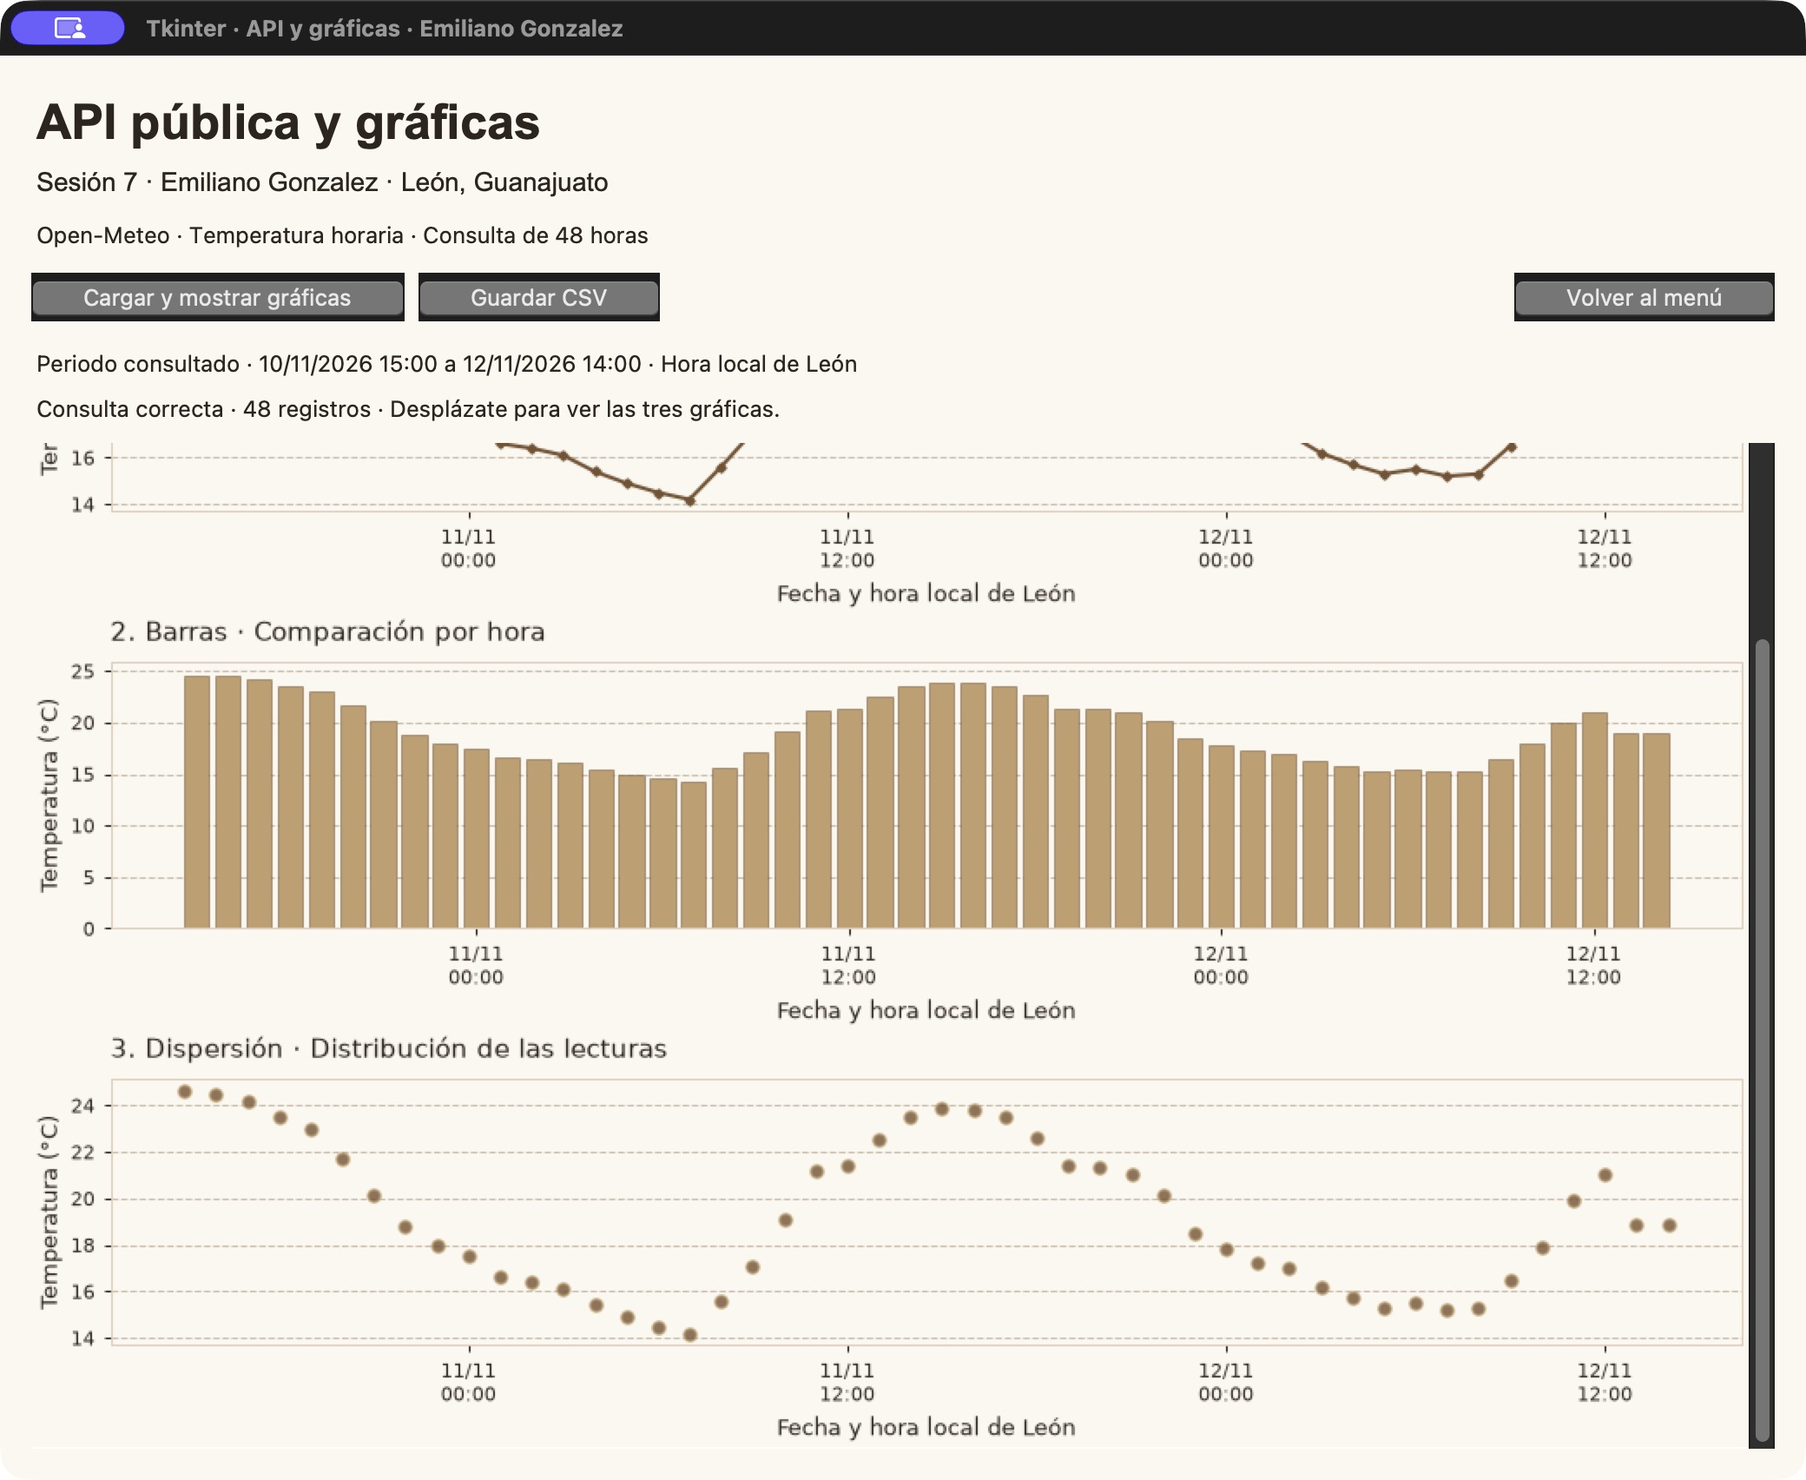
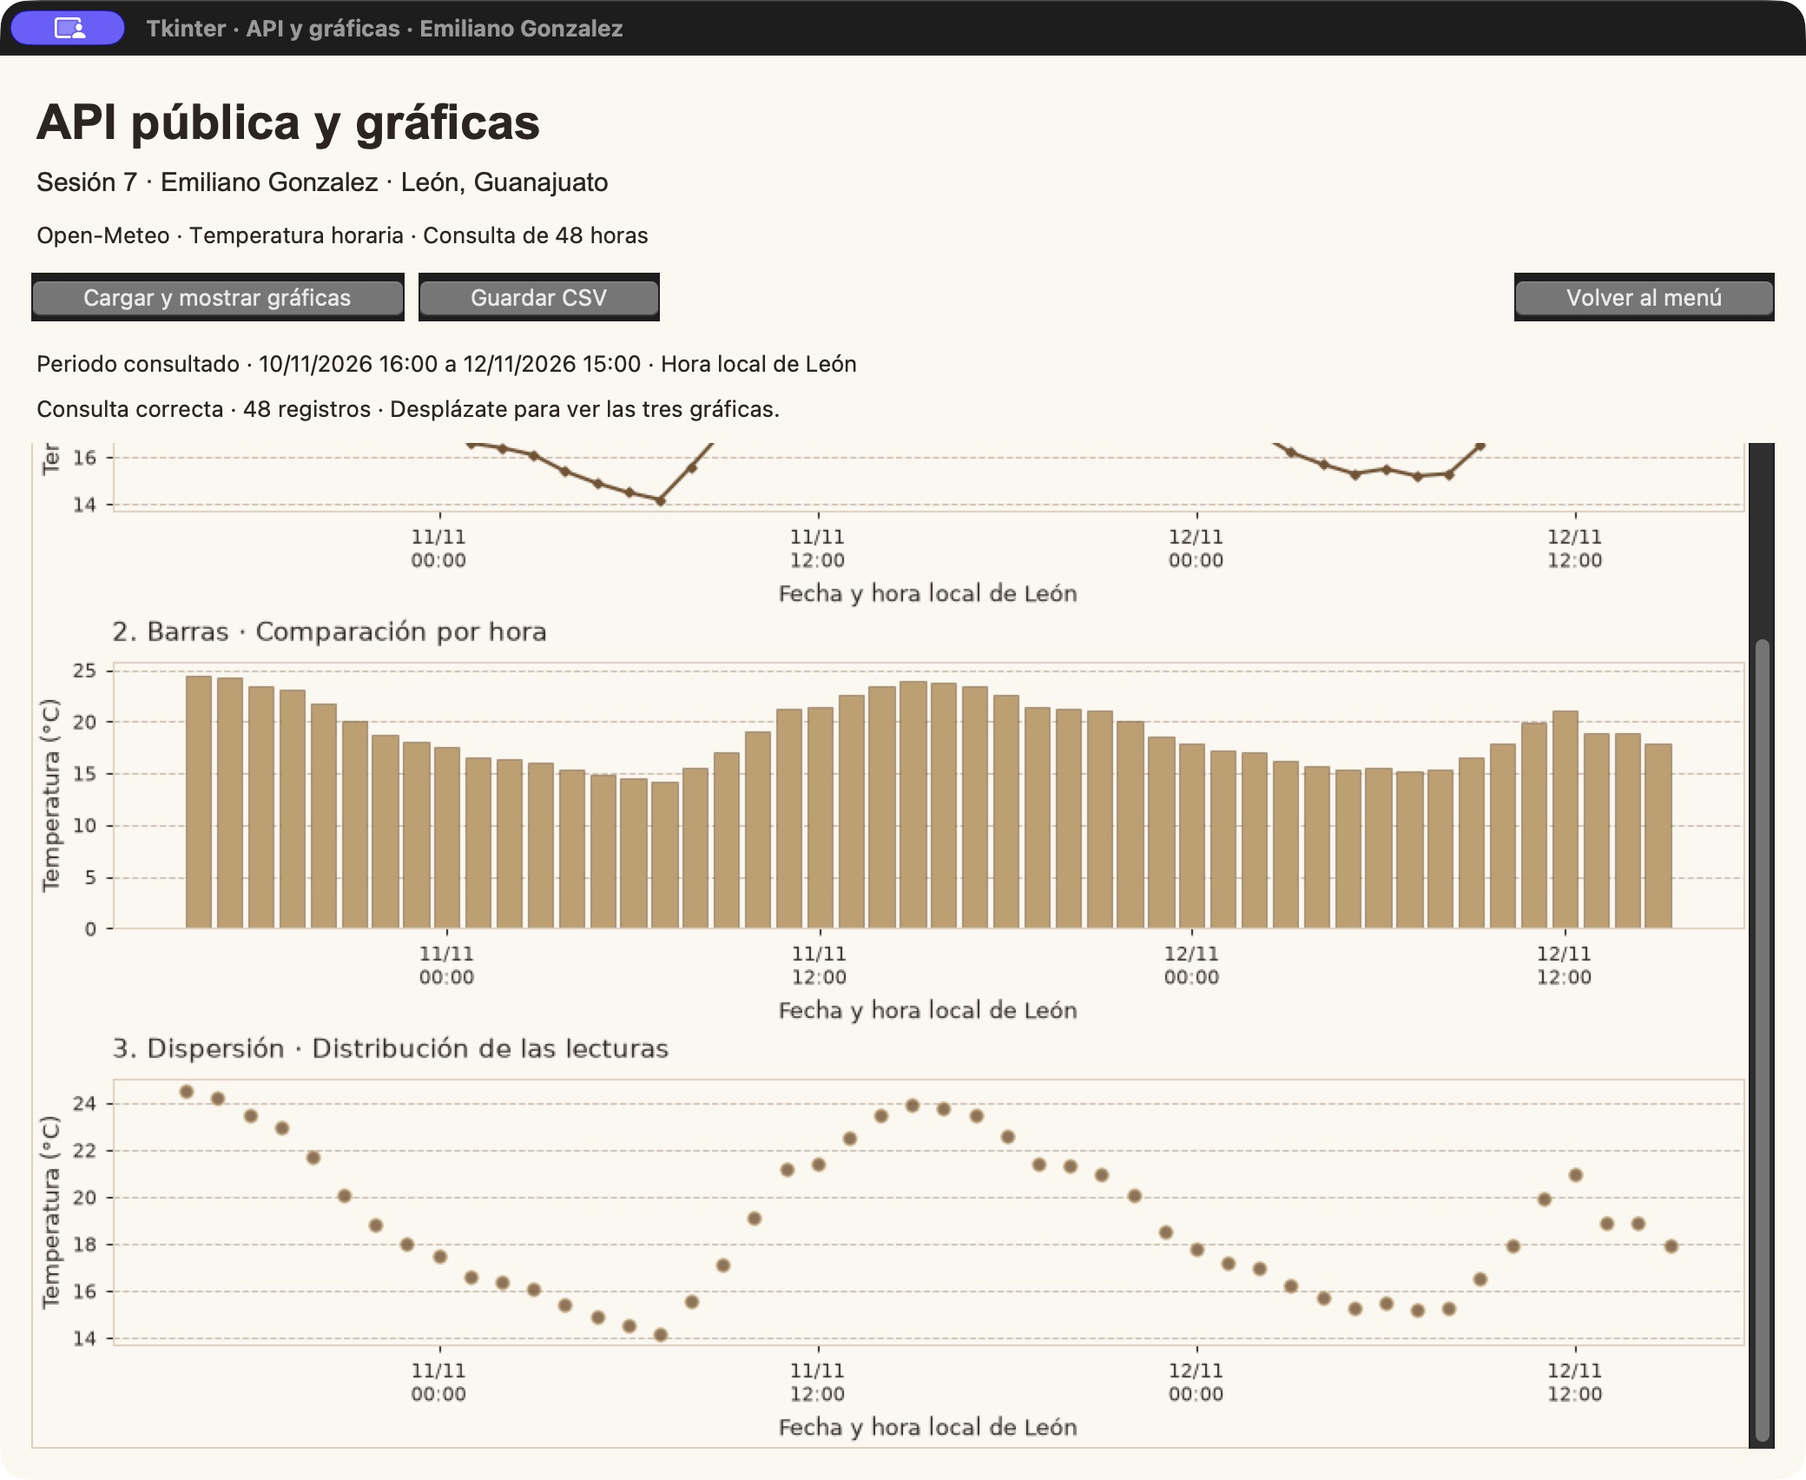
Simplifica la ventana API con funciones y ciclos basicos

diff --git a/src/app/win_canvas.py b/src/app/win_canvas.py
@@ -1,31 +1,13 @@
-"""Sesión 7 de Emiliano. API pública, tres gráficas y guardado en CSV."""
-
 import csv
 from datetime import datetime
-import math
-from pathlib import Path
-from queue import Empty, Queue
-from tempfile import NamedTemporaryFile
-from threading import Thread
 import tkinter as tk
-from tkinter import filedialog, messagebox, ttk
+from tkinter import ttk, filedialog, messagebox
 
-from matplotlib import dates as mdates
-from matplotlib.backends.backend_tkagg import FigureCanvasTkAgg
-from matplotlib.figure import Figure
 import requests
+from matplotlib import dates as mdates
+from matplotlib.figure import Figure
+from matplotlib.backends.backend_tkagg import FigureCanvasTkAgg
 
-
-API_URL = "https://api.open-meteo.com/v1/forecast"
-PARAMETROS = {
-    "latitude": 21.12,
-    "longitude": -101.68,
-    "hourly": "temperature_2m",
-    "past_hours": 48,
-    "forecast_hours": 0,
-    "timezone": "America/Mexico_City",
-    "temperature_unit": "celsius",
-}
 FONDO = "#fcf8f0"
 CAFE = "#765130"
 TINTA = "#2c241e"
@@ -33,63 +15,58 @@ DORADO = "#c29f6c"
 BORDE = "#ded0bc"
 
 
+# 1. Pedir a la API las temperaturas de las últimas 48 horas de León.
 def fetch_data():
-    """Consulta las últimas 48 horas disponibles de temperatura de León."""
-    respuesta = requests.get(API_URL, params=PARAMETROS, timeout=15)
+    url = "https://api.open-meteo.com/v1/forecast"
+    parametros = {
+        "latitude": 21.12,
+        "longitude": -101.68,
+        "hourly": "temperature_2m",
+        "past_hours": 48,
+        "forecast_hours": 0,
+        "timezone": "America/Mexico_City",
+        "temperature_unit": "celsius",
+    }
+    respuesta = requests.get(url, params=parametros, timeout=15)
     respuesta.raise_for_status()
     datos = respuesta.json()["hourly"]
     horas = datos["time"]
-    temperaturas = datos["temperature_2m"]
+    temperaturas = []
+    for valor in datos["temperature_2m"]:
+        temperaturas.append(float(valor))
     if not horas or len(horas) != len(temperaturas):
-        raise ValueError("La API devolvió una serie de datos incompleta.")
-
-    # Validar las fechas y temperaturas antes de mostrarlas o guardarlas.
-    for hora, temperatura in zip(horas, temperaturas):
+        raise ValueError("La API devolvió datos incompletos.")
+    for hora in horas:
         datetime.fromisoformat(hora)
-        if isinstance(temperatura, bool) or not isinstance(temperatura, (int, float)):
-            raise ValueError("La API devolvió una temperatura inválida.")
-        if not math.isfinite(temperatura):
-            raise ValueError("La API devolvió una temperatura fuera de rango.")
     return horas, temperaturas
 
 
+# 2. Guardar las fechas y temperaturas en un archivo CSV.
 def guardar_csv(ruta, horas, temperaturas):
-    """Guarda la consulta completa y reemplaza el archivo al terminar."""
-    ruta = Path(ruta)
-    temporal = None
-    try:
-        with NamedTemporaryFile(
-            mode="w", encoding="utf-8", newline="", dir=ruta.parent,
-            prefix=".temperaturas_", suffix=".tmp", delete=False,
-        ) as archivo:
-            temporal = Path(archivo.name)
-            escritor = csv.writer(archivo, lineterminator="\n")
-            escritor.writerow(["fecha_hora", "temperatura_c"])
-            escritor.writerows(zip(horas, temperaturas))
-        temporal.replace(ruta)
-    finally:
-        if temporal is not None:
-            temporal.unlink(missing_ok=True)
+    with open(ruta, "w", encoding="utf-8", newline="") as archivo:
+        escritor = csv.writer(archivo, lineterminator="\n")
+        escritor.writerow(["fecha_hora", "temperatura_c"])
+        for i in range(len(horas)):
+            escritor.writerow([horas[i], temperaturas[i]])
 
 
-def crear_graficas(horas, temperaturas):
-    """Dibuja línea, barras y dispersión sobre la misma consulta horaria."""
-    fechas = [datetime.fromisoformat(hora) for hora in horas]
-    figura = Figure(figsize=(10, 8), dpi=90, layout="constrained", facecolor=FONDO)
+# 3. Dibujar tres gráficas con los mismos datos.
+def crear_graficas(figura, horas, temperaturas):
+    fechas = []
+    for hora in horas:
+        fechas.append(datetime.fromisoformat(hora))
+    figura.clear()
     ejes = figura.subplots(3, 1)
-    ejes[0].plot(fechas, temperaturas, color=CAFE, marker="D", markersize=3,
-                 linewidth=1.7, label="Temperatura horaria")
-    ejes[1].bar(fechas, temperaturas, width=0.033, color=DORADO, edgecolor=CAFE,
-                linewidth=0.4, label="Temperatura por hora")
-    ejes[2].scatter(fechas, temperaturas, color=CAFE, edgecolors=DORADO,
-                    marker="o", s=34, alpha=0.8, label="Lecturas horarias")
-
+    ejes[0].plot(fechas, temperaturas, color=CAFE, marker="D", markersize=3, linewidth=1.7)
+    ejes[1].bar(fechas, temperaturas, width=0.033, color=DORADO, edgecolor=CAFE, linewidth=0.4)
+    ejes[2].scatter(fechas, temperaturas, color=CAFE, edgecolors=DORADO, s=34, alpha=0.8)
     titulos = ["1. Línea · Evolución de la temperatura",
                "2. Barras · Comparación por hora",
                "3. Dispersión · Distribución de las lecturas"]
-    for eje, titulo in zip(ejes, titulos):
+    for i in range(3):
+        eje = ejes[i]
         eje.set_facecolor(FONDO)
-        eje.set_title(titulo, loc="left", color=TINTA, fontsize=12, pad=10)
+        eje.set_title(titulos[i], loc="left", color=TINTA, fontsize=12, pad=10)
         eje.set_xlabel("Fecha y hora local de León", color=TINTA)
         eje.set_ylabel("Temperatura (°C)", color=TINTA)
         eje.xaxis.set_major_locator(mdates.AutoDateLocator(minticks=4, maxticks=8))
@@ -99,9 +76,9 @@ def crear_graficas(horas, temperaturas):
         eje.set_axisbelow(True)
         for borde in eje.spines.values():
             borde.set_color(BORDE)
-    return figura
 
 
+# 4. Crear la subventana, igual que en el programa base del profesor.
 def open_win_canvas(parent: tk.Tk):
     win = tk.Toplevel(parent)
     win.title("Tkinter · API y gráficas · Emiliano Gonzalez")
@@ -110,101 +87,63 @@ def open_win_canvas(parent: tk.Tk):
     win.configure(bg=FONDO)
     estilo = ttk.Style(win)
     estilo.configure("Emiliano.TButton", padding=(10, 0))
-
     frm = tk.Frame(win, padx=18, pady=18, bg=FONDO)
     frm.pack(fill="both", expand=True)
     tk.Label(frm, text="API pública y gráficas", bg=FONDO, fg=TINTA,
-              font=("Arial", 21, "bold")).pack(anchor="w")
+             font=("Arial", 21, "bold")).pack(anchor="w")
     tk.Label(frm, text="Sesión 7 · Emiliano Gonzalez · León, Guanajuato",
-              bg=FONDO, fg=TINTA, font=("Arial", 11)).pack(anchor="w", pady=(4, 8))
+             bg=FONDO, fg=TINTA, font=("Arial", 11)).pack(anchor="w", pady=(4, 8))
     tk.Label(frm, text="Open-Meteo · Temperatura horaria · Consulta de 48 horas",
-              bg=FONDO, fg=TINTA).pack(anchor="w", pady=(0, 12))
-
+             bg=FONDO, fg=TINTA).pack(anchor="w", pady=(0, 12))
     controles = tk.Frame(frm, bg=FONDO)
     controles.pack(fill="x")
     estado = tk.StringVar(value="Presiona Cargar y mostrar gráficas para consultar la API.")
     periodo = tk.StringVar(value="Los datos se mostrarán con la hora local de León.")
-    resultados = Queue()
-    datos_actuales = None
-    grafica = None
-    figura = None
-    tarea_pendiente = None
+    horas = []
+    temperaturas = []
 
-    def cerrar():
-        if tarea_pendiente is not None:
-            win.after_cancel(tarea_pendiente)
-        if figura is not None:
-            figura.clear()
-        win.destroy()
-
-    def guardar():
-        if datos_actuales is None:
-            return
-        ruta = filedialog.asksaveasfilename(
-            parent=win, title="Guardar la consulta de Emiliano",
-            initialfile="temperaturas_emiliano.csv", defaultextension=".csv",
-            filetypes=[("Archivo CSV", "*.csv")],
-        )
-        if not ruta:
-            return
+    def cargar():
+        estado.set("Consultando Open-Meteo…")
+        win.update_idletasks()
         try:
-            guardar_csv(ruta, *datos_actuales)
-        except OSError as error:
-            messagebox.showerror("Error al guardar", str(error), parent=win)
-            return
-        estado.set(f"CSV guardado · {len(datos_actuales[0])} registros.")
-        messagebox.showinfo("Consulta guardada", "Se guardaron las fechas y temperaturas en CSV.", parent=win)
-
-    def recibir_resultado():
-        nonlocal datos_actuales, grafica, figura, tarea_pendiente
-        tarea_pendiente = None
-        try:
-            datos, error = resultados.get_nowait()
-        except Empty:
-            tarea_pendiente = win.after(100, recibir_resultado)
-            return
-        boton_cargar.configure(state="normal")
-        if error:
+            nuevas_horas, nuevas_temperaturas = fetch_data()
+        except (requests.RequestException, ValueError, KeyError, TypeError) as error:
             estado.set("No se pudo actualizar la consulta. Puedes volver a intentarlo.")
-            boton_guardar.configure(state="normal" if datos_actuales else "disabled")
-            messagebox.showerror("Error de conexión", error, parent=win)
+            messagebox.showerror("Error de conexión", str(error), parent=win)
             return
-
-        nueva_figura = crear_graficas(*datos)
-        if grafica is not None:
-            grafica.get_tk_widget().destroy()
-            figura.clear()
-        figura = nueva_figura
-        grafica = FigureCanvasTkAgg(figura, master=panel_graficas)
+        horas.clear()
+        horas.extend(nuevas_horas)
+        temperaturas.clear()
+        temperaturas.extend(nuevas_temperaturas)
+        crear_graficas(figura, horas, temperaturas)
         grafica.draw()
-        grafica.get_tk_widget().pack(fill="both", expand=True)
-        datos_actuales = datos
-        inicio = datetime.fromisoformat(datos[0][0]).strftime("%d/%m/%Y %H:%M")
-        fin = datetime.fromisoformat(datos[0][-1]).strftime("%d/%m/%Y %H:%M")
+        inicio = datetime.fromisoformat(horas[0]).strftime("%d/%m/%Y %H:%M")
+        fin = datetime.fromisoformat(horas[-1]).strftime("%d/%m/%Y %H:%M")
         periodo.set(f"Periodo consultado · {inicio} a {fin} · Hora local de León")
-        estado.set(f"Consulta correcta · {len(datos[0])} registros · Desplázate para ver las tres gráficas.")
+        estado.set(f"Consulta correcta · {len(horas)} registros · Desplázate para ver las tres gráficas.")
         boton_guardar.configure(state="normal")
         visor.yview_moveto(0)
 
-    def cargar():
-        nonlocal tarea_pendiente
-        boton_cargar.configure(state="disabled")
-        boton_guardar.configure(state="disabled")
-        estado.set("Consultando Open-Meteo…")
-
-        def consultar():
-            # La consulta corre fuera de Tkinter para mantener la ventana activa.
+    def guardar():
+        ruta = filedialog.asksaveasfilename(
+            parent=win, title="Guardar la consulta de Emiliano",
+            initialfile="temperaturas_emiliano.csv", defaultextension=".csv",
+            filetypes=[("Archivo CSV", "*.csv")])
+        if ruta:
             try:
-                resultados.put((fetch_data(), None))
-            except (requests.RequestException, ValueError, KeyError, TypeError) as error:
-                resultados.put((None, f"No se pudieron obtener los datos. Revisa tu conexión.\n{error}"))
+                guardar_csv(ruta, horas, temperaturas)
+            except OSError as error:
+                messagebox.showerror("Error al guardar", str(error), parent=win)
+                return
+            estado.set(f"CSV guardado · {len(horas)} registros.")
+            messagebox.showinfo("Consulta guardada", "Se guardaron las fechas y temperaturas en CSV.", parent=win)
 
-        Thread(target=consultar, daemon=True).start()
-        tarea_pendiente = win.after(100, recibir_resultado)
+    def cerrar():
+        figura.clear()
+        win.destroy()
 
-    boton_cargar = ttk.Button(controles, text="Cargar y mostrar gráficas", command=cargar,
-                              style="Emiliano.TButton")
-    boton_cargar.pack(side="left", padx=(0, 8))
+    ttk.Button(controles, text="Cargar y mostrar gráficas", command=cargar,
+               style="Emiliano.TButton").pack(side="left", padx=(0, 8))
     boton_guardar = ttk.Button(controles, text="Guardar CSV", command=guardar,
                                state="disabled", style="Emiliano.TButton")
     boton_guardar.pack(side="left")
@@ -213,6 +152,7 @@ def open_win_canvas(parent: tk.Tk):
     tk.Label(frm, textvariable=periodo, bg=FONDO, fg=TINTA).pack(anchor="w", pady=(12, 4))
     tk.Label(frm, textvariable=estado, bg=FONDO, fg=TINTA, wraplength=940).pack(anchor="w", pady=(0, 10))
 
+    # El Canvas permite desplazar las gráficas hacia abajo y hacia arriba.
     area = tk.Frame(frm, bg=FONDO)
     area.pack(fill="both", expand=True)
     visor = tk.Canvas(area, bg=FONDO, highlightthickness=1, highlightbackground=BORDE)
@@ -220,20 +160,15 @@ def open_win_canvas(parent: tk.Tk):
     visor.configure(yscrollcommand=desplazamiento.set)
     desplazamiento.pack(side="right", fill="y")
     visor.pack(side="left", fill="both", expand=True)
-    panel_graficas = tk.Frame(visor, bg=FONDO)
-    ventana_interior = visor.create_window((0, 0), window=panel_graficas, anchor="nw")
-    panel_graficas.bind("<Configure>", lambda event: visor.configure(scrollregion=visor.bbox("all")))
+    panel = tk.Frame(visor, bg=FONDO)
+    ventana_interior = visor.create_window((0, 0), window=panel, anchor="nw")
+    panel.bind("<Configure>", lambda event: visor.configure(scrollregion=visor.bbox("all")))
     visor.bind("<Configure>", lambda event: visor.itemconfigure(ventana_interior, width=event.width))
     win.bind("<MouseWheel>", lambda event: visor.yview_scroll(-1 if event.delta > 0 else 1, "units"))
     win.bind("<Next>", lambda event: visor.yview_scroll(1, "pages"))
     win.bind("<Prior>", lambda event: visor.yview_scroll(-1, "pages"))
+
+    figura = Figure(figsize=(10, 8), dpi=90, layout="constrained", facecolor=FONDO)
+    grafica = FigureCanvasTkAgg(figura, master=panel)
+    grafica.get_tk_widget().pack(fill="both", expand=True)
     win.protocol("WM_DELETE_WINDOW", cerrar)
-
-
-if __name__ == "__main__":
-    root = tk.Tk()
-    root.withdraw()
-    open_win_canvas(root)
-    ventana = root.winfo_children()[0]
-    ventana.bind("<Destroy>", lambda event: root.destroy() if event.widget is ventana else None)
-    root.mainloop()

diff --git a/docs/05_adaptacion_ventana_emiliano.md b/docs/05_adaptacion_ventana_emiliano.md
@@ -56,12 +56,23 @@ Los parámetros principales son `hourly=temperature_2m`, `past_hours=48`, `forec
 
 - Cambié los dibujos de ejemplo por una consulta HTTP con `requests` y lectura de la respuesta JSON.
 - Agregué validación de la respuesta HTTP, las fechas y las temperaturas. Si la consulta falla o tarda más de 15 segundos, aparece un aviso y se puede volver a intentar.
-- La consulta se realiza en un hilo separado, para que la ventana siga respondiendo mientras llegan los datos.
+- La consulta se realiza directamente al presionar el botón, con una función y un bloque `try` / `except`. Mientras responde la API, la ventana puede hacer una pausa; la petición tiene un tiempo de espera de 15 segundos.
 - Incrusté las tres gráficas con `FigureCanvasTkAgg`, siguiendo el método de integración de [Matplotlib (s. f.)](https://matplotlib.org/stable/gallery/user_interfaces/embedding_in_tk_sgskip.html): **línea**, para ver la evolución; **barras**, para comparar las horas; y **dispersión**, para mostrar cada dato por separado. Todas tienen título, fecha y hora, temperatura en °C y cuadrícula.
 - Coloqué las gráficas una debajo de otra y agregué una barra de desplazamiento para verlas completas. También se puede avanzar con Av Pág y regresar con Re Pág (en Mac, Fn + flecha abajo o arriba).
 - Agregué el periodo consultado y la cantidad de registros. Al recargar, las gráficas anteriores se reemplazan.
 - Agregué **Guardar CSV** y **Volver al menú**. El CSV incluye las columnas `fecha_hora` y `temperatura_c`, y el usuario puede elegir dónde guardarlo.
 - Actualicé el nombre del quinto botón del menú a **5) API y gráficas (Emiliano)** y agregué las dependencias en [`requirements.txt`](../requirements.txt).
+
+### Organización del código simplificado
+
+El archivo mantiene la estructura del programa base: importar las librerías, crear la subventana con `tk.Toplevel`, colocar los elementos y conectar cada botón con una función. Lo organicé en cuatro partes:
+
+1. `fetch_data`: pedir los datos a la API y leer las fechas y temperaturas.
+2. `guardar_csv`: abrir un archivo y escribir los datos con un ciclo `for`.
+3. `crear_graficas`: dibujar la línea, las barras y la dispersión.
+4. `open_win_canvas`: crear la ventana y sus botones **Cargar**, **Guardar CSV** y **Volver al menú**.
+
+También simplifiqué la recarga: se limpia la misma figura y se dibujan los datos nuevos. Conservé los colores y la distribución de la pantalla. La apariencia requiere varias líneas para los títulos, los ejes, los botones y el desplazamiento, pero ahora la consulta y el guardado utilizan funciones, listas y ciclos básicos.
 
 ### Cómo ejecutar y revisar mi ventana
 
@@ -85,7 +96,7 @@ En macOS, si el entorno todavía no está activo, se activa con `source .venv/bi
 
 ### Persistencia y datos de ejemplo
 
-En [`data/temperaturas_emiliano.csv`](../data/temperaturas_emiliano.csv) dejé una consulta de ejemplo con **48 registros**, del **10/11/2026 a las 15:00** al **12/11/2026 a las 14:00**, con la hora local de León. El archivo se puede abrir sin conexión. Al volver a consultar la API, el periodo puede cambiar; el CSV se actualiza únicamente cuando se guarda una nueva consulta.
+En [`data/temperaturas_emiliano.csv`](../data/temperaturas_emiliano.csv) dejé una consulta de ejemplo con **48 registros**, del **10/11/2026 a las 16:00** al **12/11/2026 a las 15:00**, con la hora local de León. El archivo se puede abrir sin conexión. Al volver a consultar la API, el periodo puede cambiar; el CSV se actualiza únicamente cuando se guarda una nueva consulta.
 
 ### Capturas de la aplicación en ejecución
 
